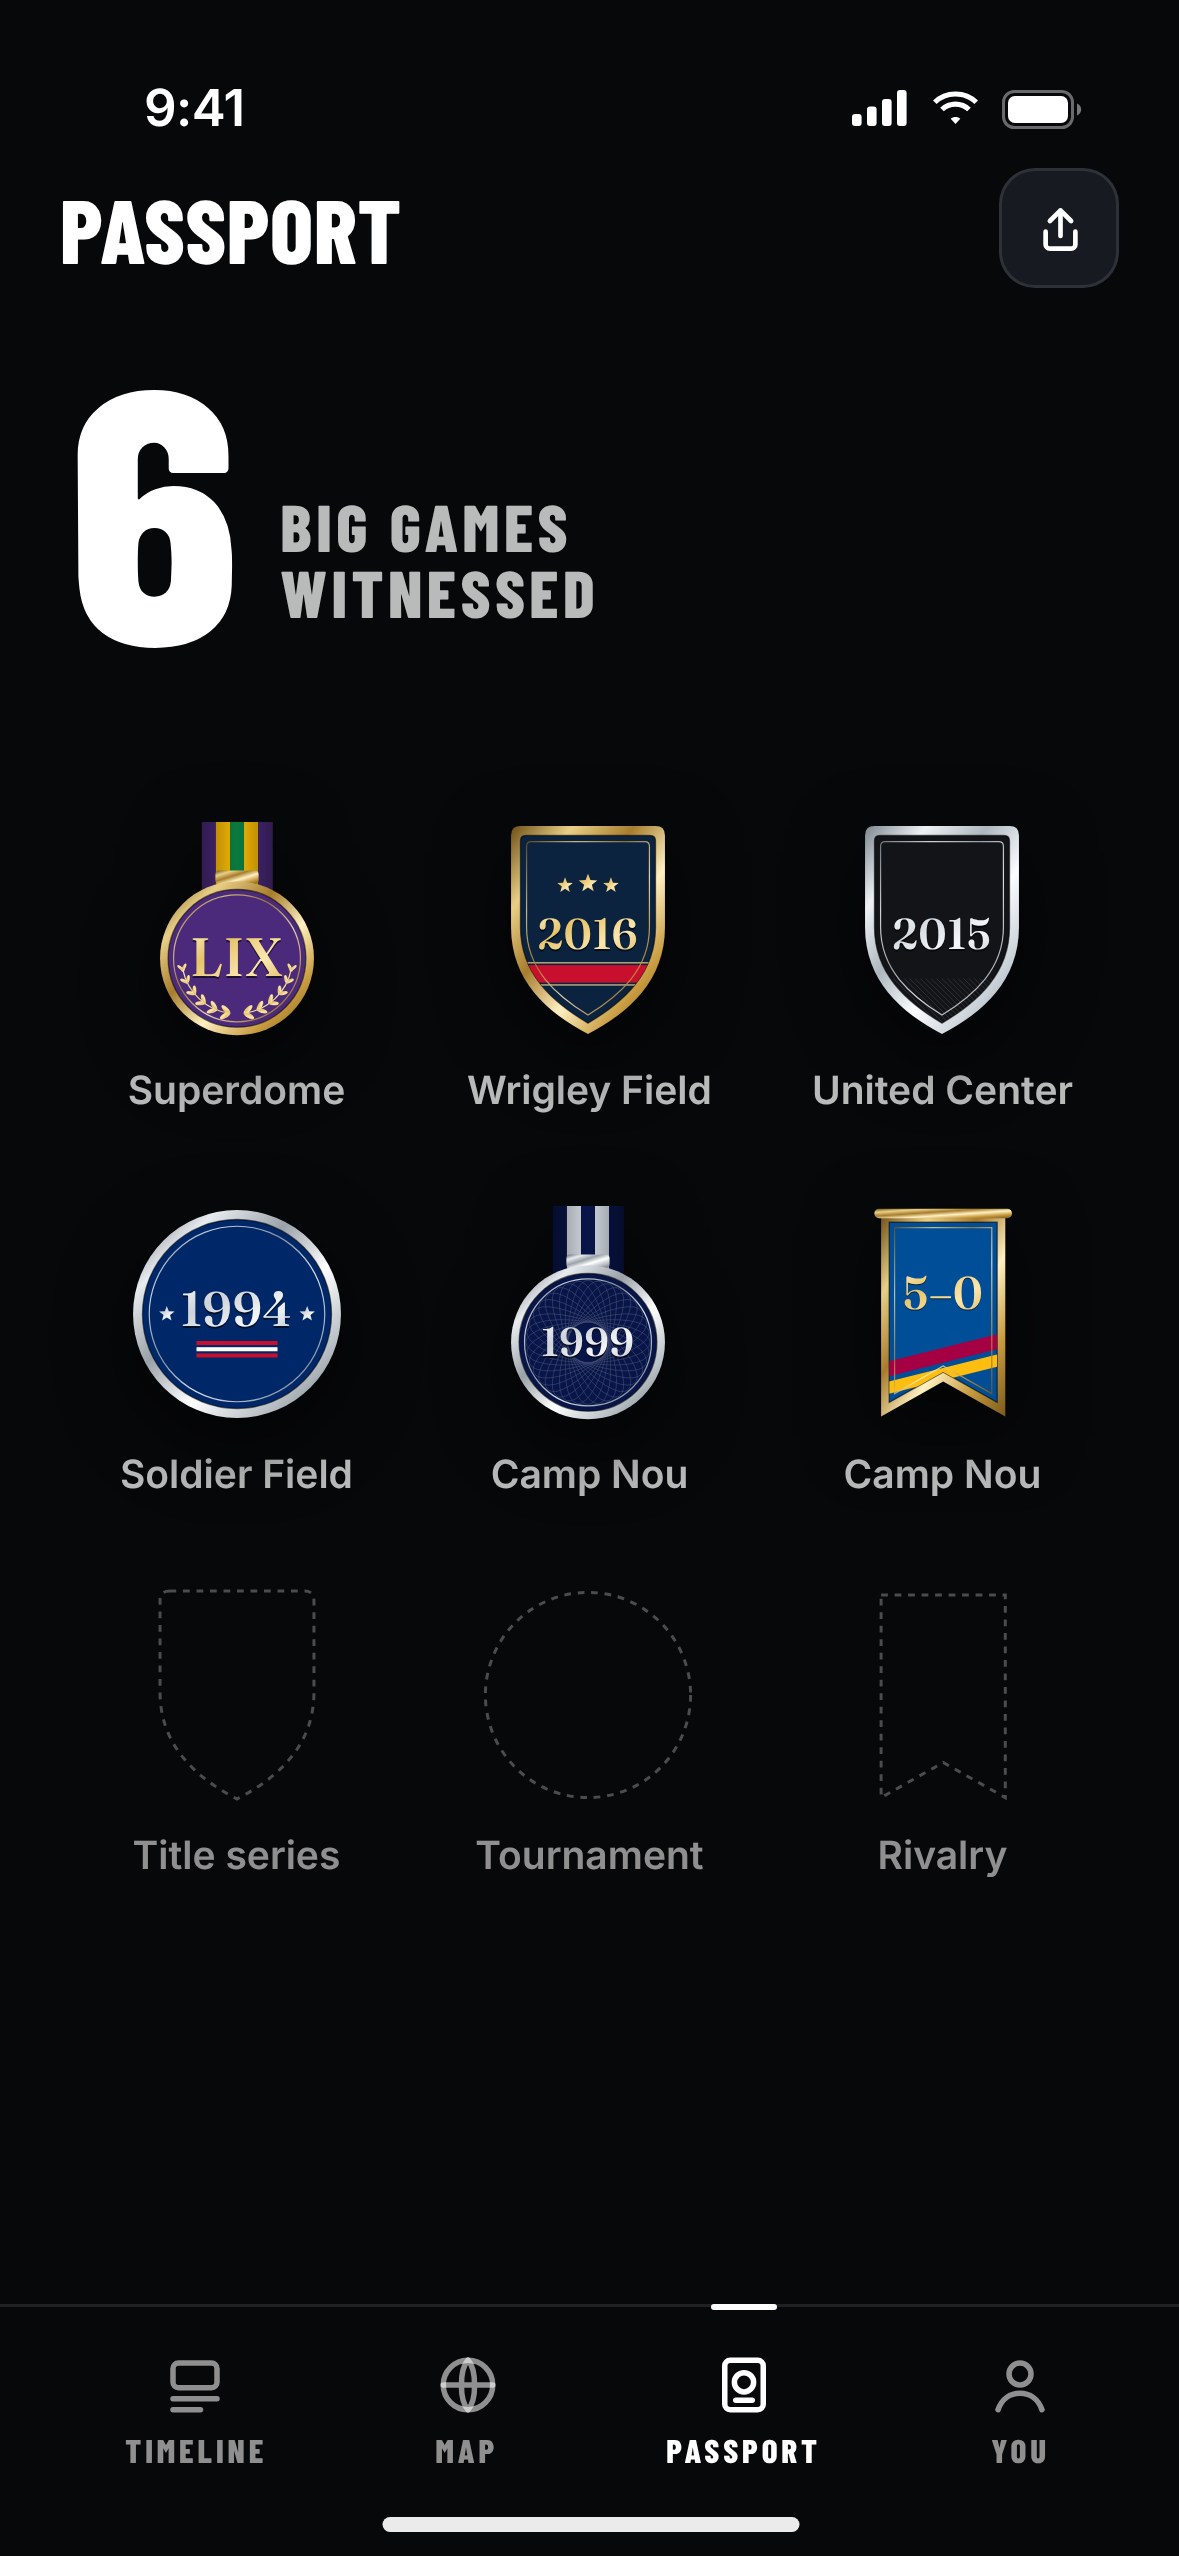
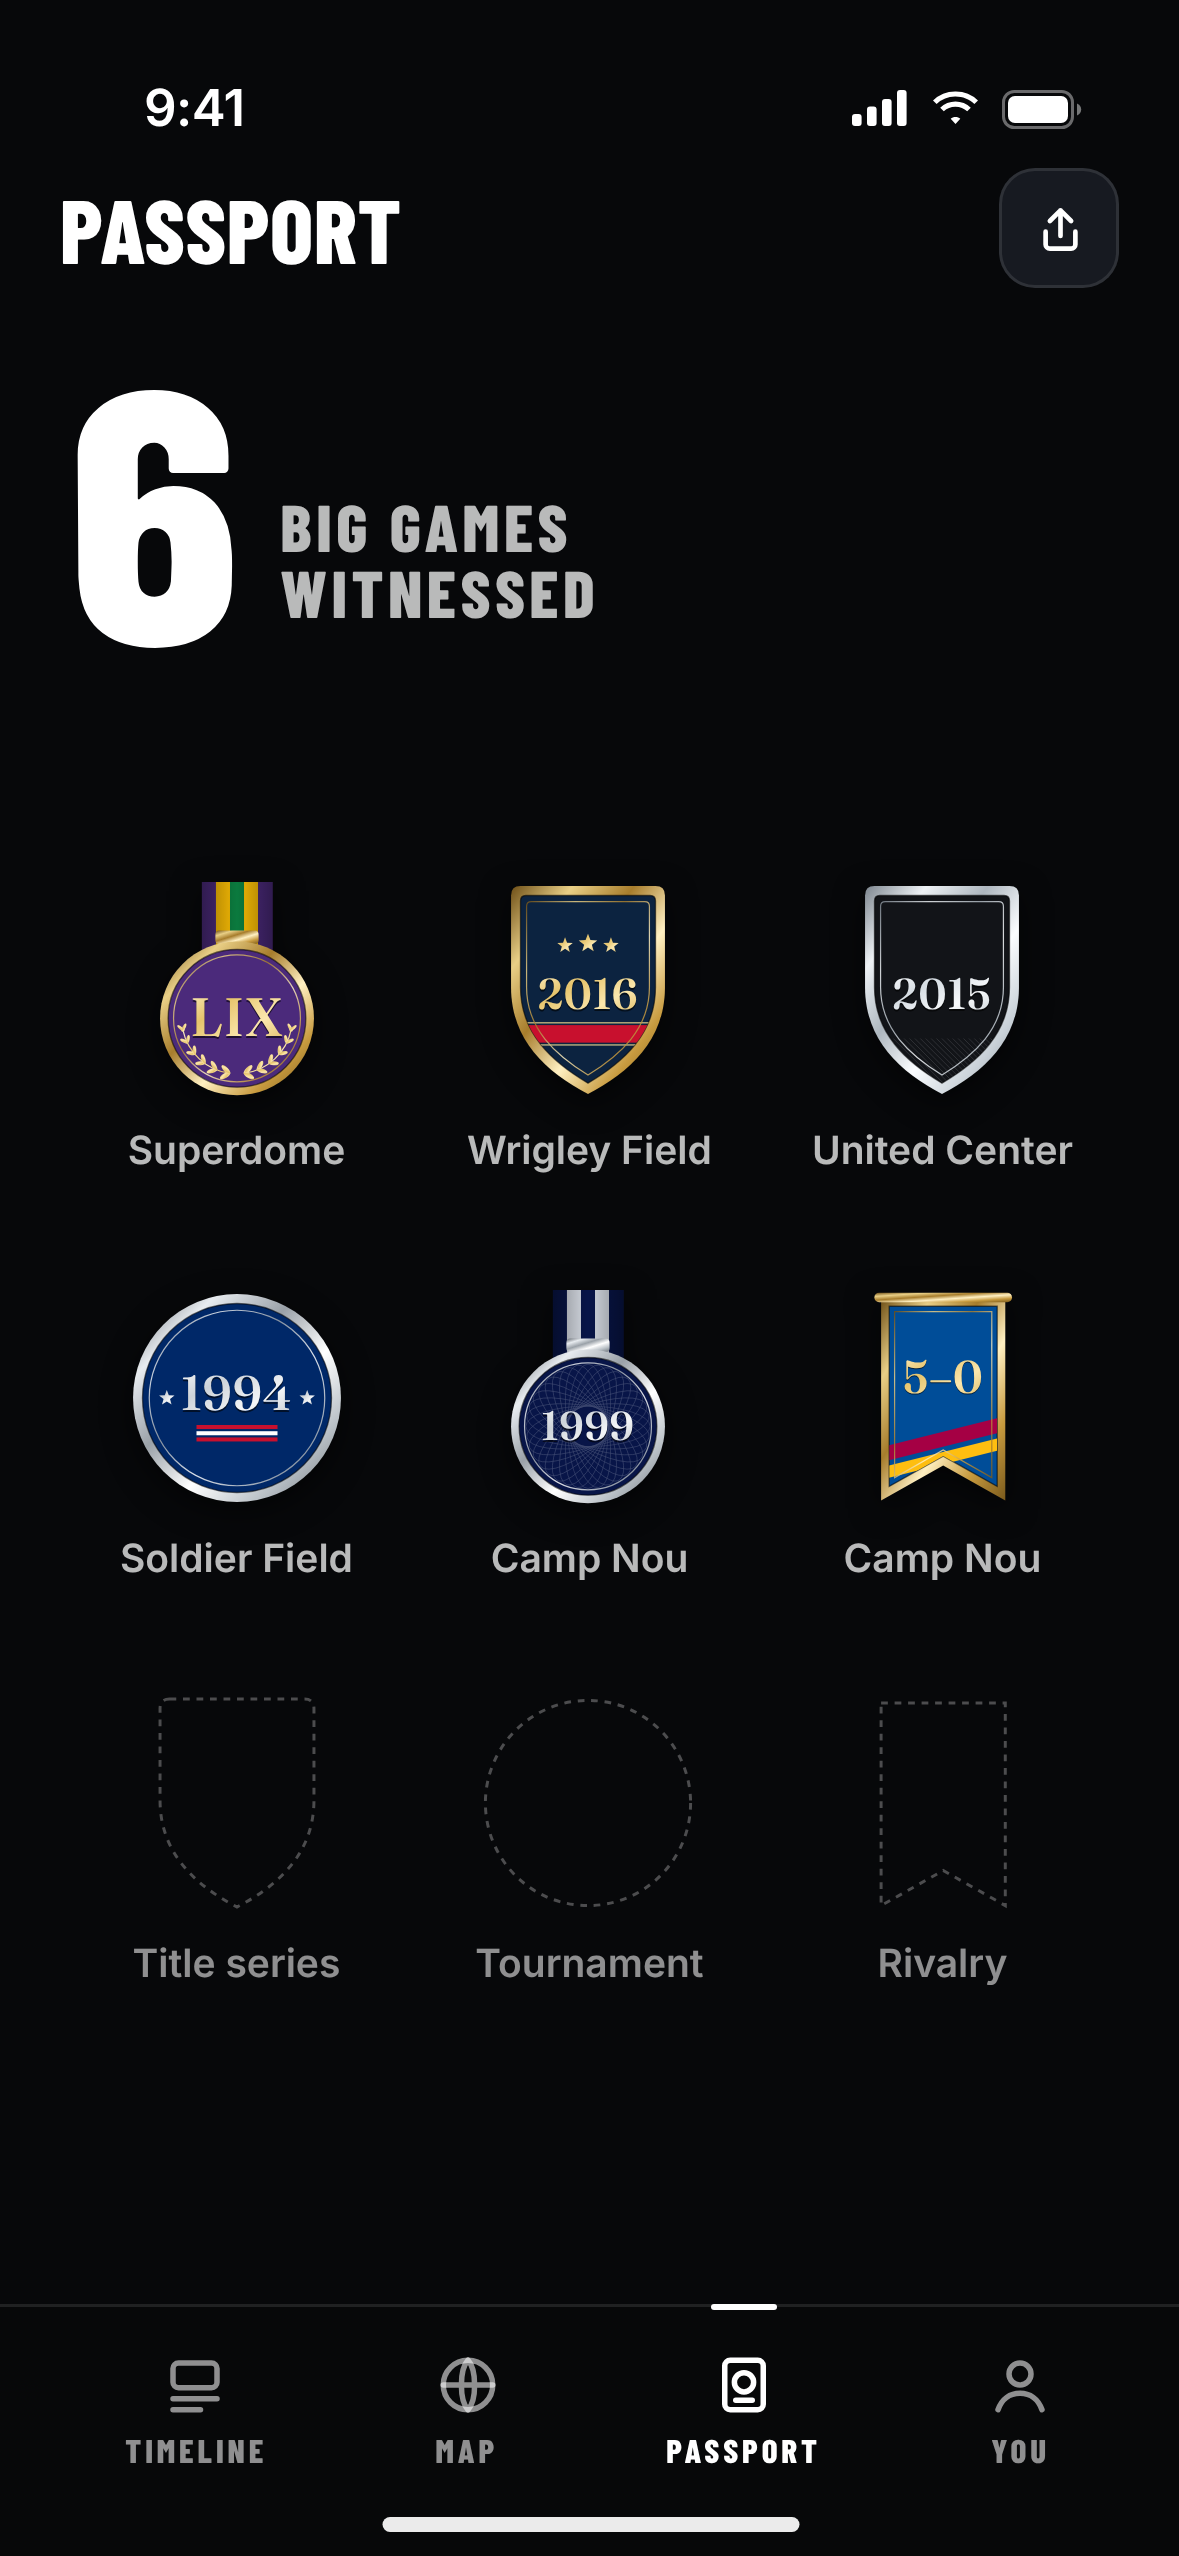
Badge exploration A: heritage (in progress)
Claude-Session: https://claude.ai/code/session_01YKCsRGYnDsF5Pryete24Wa

diff --git a/mockups/big-games/explorations/heritage/features/badges/v9-passport.html b/mockups/big-games/explorations/heritage/features/badges/v9-passport.html
@@ -24,10 +24,10 @@
   .hero { position: absolute; top: 118px; left: 20px; right: 20px; display: flex; align-items: flex-end; gap: 14px; }
   .hero .b-mega { font-size: 120px; }
   .hero .unit { font: 800 22px/1 var(--b-cond); letter-spacing: 1.5px; text-transform: uppercase; color: rgba(255,255,255,.72); padding-bottom: 8px; }
-  .grid { position: absolute; top: 270px; left: 20px; right: 20px; display: grid; grid-template-columns: repeat(3, 1fr); row-gap: 26px; }
+  .grid { position: absolute; top: 290px; left: 20px; right: 20px; display: grid; grid-template-columns: repeat(3, 1fr); row-gap: 34px; }
   .st { display: flex; flex-direction: column; align-items: center; gap: 10px; }
   .st .art { height: 76px; display: flex; align-items: flex-end; }
-  .st .hx-badge { filter: drop-shadow(0 8px 12px rgba(0,0,0,.6)); }
+  .st .hx-badge { filter: drop-shadow(0 3px 5px rgba(0,0,0,.55)); }
   .st .cap { font: 600 13px/1.2 var(--b-ui); color: rgba(255,255,255,.72); text-align: center; white-space: nowrap; }
   .st.ghost .cap { color: rgba(255,255,255,.55); }
 </style></head>

diff --git a/mockups/big-games/explorations/heritage/build.py b/mockups/big-games/explorations/heritage/build.py
@@ -470,10 +470,10 @@ def v9():
   .hero { position: absolute; top: 118px; left: 20px; right: 20px; display: flex; align-items: flex-end; gap: 14px; }
   .hero .b-mega { font-size: 120px; }
   .hero .unit { font: 800 22px/1 var(--b-cond); letter-spacing: 1.5px; text-transform: uppercase; color: rgba(255,255,255,.72); padding-bottom: 8px; }
-  .grid { position: absolute; top: 270px; left: 20px; right: 20px; display: grid; grid-template-columns: repeat(3, 1fr); row-gap: 26px; }
+  .grid { position: absolute; top: 290px; left: 20px; right: 20px; display: grid; grid-template-columns: repeat(3, 1fr); row-gap: 34px; }
   .st { display: flex; flex-direction: column; align-items: center; gap: 10px; }
   .st .art { height: 76px; display: flex; align-items: flex-end; }
-  .st .hx-badge { filter: drop-shadow(0 8px 12px rgba(0,0,0,.6)); }
+  .st .hx-badge { filter: drop-shadow(0 3px 5px rgba(0,0,0,.55)); }
   .st .cap { font: 600 13px/1.2 var(--b-ui); color: rgba(255,255,255,.72); text-align: center; white-space: nowrap; }
   .st.ghost .cap { color: rgba(255,255,255,.55); }
 """
